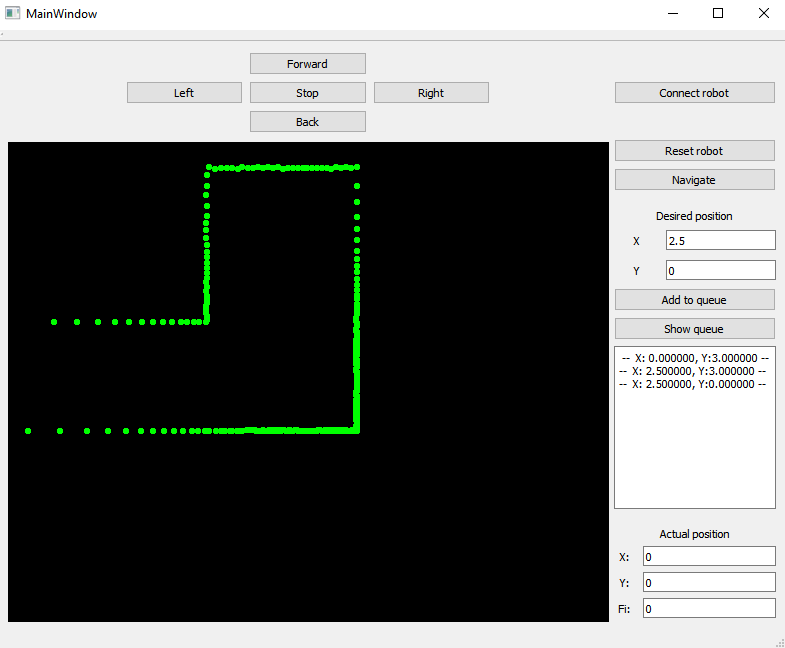
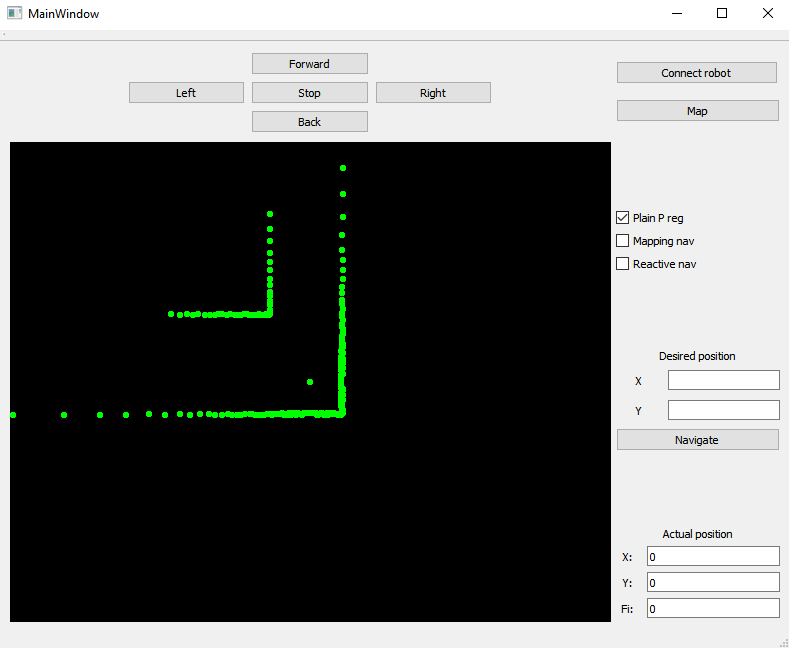
Pridaná dokumentácia

diff --git a/README.md b/README.md
@@ -1,7 +1,155 @@
-# Robot Command Tool
-This is assigment for school subject Controlling mobile robots. The GUI is made in Qt.
-You can control robot manually or by defining points to queue. 
-There is P-regulator with ramp signal, which compute all speeds to succesfully reach target point.
+# Riadenie mobilných robotov #
 
-![Optional Text](images/gui.png)
-![Optional Text](images/simulator.png)
+Tento projekt pozostáva zo 4 úloch, ktoré su naprogramované ako súčasť jednej aplikácie.\
+Všetky úlohy sú implementované do demo príkladu, ktorý sme dostali ako podklad k predmetu.
+
+## Úloha 1 - zadanie ##
+
+    Úlohou č.1 bolo implementovanie odometrie (lokalizácie). Z dát, ktoré máme k dispozícii 
+    vďaka snímačom na robote chceme určiť, kde sa práve robot nachádza (a pod akým uhlom).
+    Dáta, ktoré používame pre určenie polohy robota:
+        - prejdená vzdialenosť lavého a pravého kolesa (hodnoty inkrementálnych enkóderov)
+        - prejdená vzdialenosť kolesa na jeden inkrement enkódera
+        - polomer robota  
+    Na základe implementovania algoritmu úlohy č.1 dostaneme pozíciu robota ako:
+        - pozícia x, y
+        - natotočenie robota φ
+    Pozícia je vztiahnutá k počiatočnej polohe robota pri jeho spustení. To znamená, že miesto, 
+    v ktorom sa robot spustí, je v súradnicom systéme bod [0, 0], natočenie φ = 0 rad.
+
+    Druhou časťou prvej úlohy je polohovanie. Z predošlej časti máme x,y a φ, zadáme želanú polohu ako
+    Xn a Yn a budeme očakávať, že robot sa do želanej polohy dostane. To zabezpečíme pomocou implementácie
+    P regulátora s rozbehom po rampe (aby sme zabránili prešmyku kolies pri rýchlom rozbehu a tým skreslili
+    odometriu - používame enkódery na určenie polohy)
+
+### Úloha 1 - implementácia ###
+
+    Princíp algoritmu odometrie funguje na základe rozdielu hodnôt enkóderov kolies v aktuálnom cykle
+    a v predošlom cykle. Tým pádom musíme poznať hodnotu enkódera každého kolesa aj v predošlom cykle.
+    Dôležitým bodom je, že enkóder je typu beznamienkový short, ktorého maximálna hodnota je 65 535.
+    Musíme ošetriť pretečenie tohto parametre - ak dosiahne maximálnu hodnotu, znova začne od nuly.
+    Na základe ďalších vzorcov, ktoré máme v poskytnutých materiáloch, vieme vypočíťať koordináty x, y a φ.
+    Tieto koordináty budeme využívať vo všetkých ďalších úlohách, ako aj v druhej časti 1. úlohy.
+
+    Druhá úloha sa týkala polohovania. Polohovanie som zabezpečil pomocou P regulátora translačnej a 
+    rotačnej rýchlosti. Ak si používateľ zvolí želanú polohu a stlačí tlačidlo Navigate, každý cyklus
+    programu sa vyhodnotí odchýlka od želanej polohy. Následne sa v prvom kroku reguluje natočenie -
+    robot sa musí natočiť smerom k cielu, točí sa, dokym nedosiahne hodnotu mŕtveho pásma PA_1. 
+    Následne, po ukočení regulácie rotácie, sa reguluje translačný pohyb - robot sa rozbehne smerom k 
+    prekážke. Rozbieha sa po rampe, t.j želanú rýchlosť nedosiahne ihneď, ale po určitom čase lineárne.
+    Robot sa dopredne pohybuje až do momentu, kedy výchylka natočenia robota od ciela nepresiahne povolenú
+    hranicu PA_2. V tomto momente sa prerušuje regulácia doprednej rýchlosti a začína sa opäť regulácia rotácie.
+    Tento kolobeh sa opakuje až do momentu, pokým nie sú splnené podmienk dosiahnutia ciela - povolená
+    odchýlka od ciela PD. Zásobník, do ktorého pridávame želanú polohu, je realizovaný ako FIFO zásobník.
+    Môžeme teda súčasne zadať naraz po sebe viacero želaných bodov a robot sa bude polohovať postupne ku každému
+    v poradí, akom boli pridané. Pri FIFO zásobníku do znamená, first in, first out.
+
+### Úloha 1 - spustenie ###
+
+    Odometriu môže používateľ vidieť v pravej dolnej časti okna aplikácie. Ak chce používateľ využiť polohovanie,
+    zadá želané súradnice do časti "Desired position" (nezabudnime, že bod [0, 0] súradnicového systému je 
+    v počiatočnom bode štartu robota). Po zadaní želaného bodu stlačíme tlačidlo "Navigate" a robot sa začne 
+    polohovať do zadaného bodu.
+![Optional Text](images/gui1.png)
+
+## Úloha 2 - zadanie ##
+
+    Úlohou č.2 bolo implementovanie reaktívnej navigácie. Reaktívna navigácia má za úlohu dostať robota 
+    do požadovanej polohy a vyhnúť sa kolízii s prekážkou. T.j., musí vedieť identifikovať a obísť
+    prekážku, ak tá spôsobuje, že sa robot nedokáže dostať priamo do ciela. 
+
+### Úloha 2 - implementácia ###
+
+    Prvou časťou riešenia problému je nájsť koncové body prekážky. To som uskutočnil pomocou Euklidovskej
+    vzdialenosti a dát z lidaru. Po zadaní želaného bodu, zakliknutí možnosti "Reactive Nav" a stlačení
+    tlačidla Navigate robot vyhodnotí, či dokáže ísť priamo na prekážku, alebo nie. Ak nedokáže, vypočíta
+    odchýlku uhla od robota od natočenia k cielu. Následne na základe tejto uhlovej odchýlky vypočíta 
+    percento, v ktorej časti lidarových dát sa nachádza trajektória k cielu. T.j ak rozdiel uhla medzi
+    cieľom a robotom je 45°, percento bude 12,5 (45*100 / 360 = 12,5 ). Toto percento prepočítame na 
+    index lidarových dát - tento index rozdelí lidarové dáta na dve časti - lavá časť (od natočenia k
+    cielu doĺava) a pravá časť (od natočenia k cielu doprava). Lavá časť iteruje lidarové body od indexu
+    inkrementálne po koniec pola. Pravá časť iteruje od indexu dekrementálne po začiatok pola. 
+    V týchto iteráciach hľadáme bod, v ktorom sa skokovo zmení vzdialenosť. Ak to nastane, vieme, že sme
+    detegovali hranu prekážky. Nevieme však, či naša najbližšia hrana je prvok 'k' alebo 'k-1' (rep. k+1)
+    pri iterácii pravou stranou. Preto označíme oba body za prekážku a v neskoršej fáze vyberieme ten bod,
+    cez ktorý má robot kratšiu dráhu do ciela. Pre nájdený bod vypočítame bezpečnostný offset. Využívame 
+    pri tom goniometrické vzťahy. Keď sa robot dostane do tohto bodu, opakuje sa celý algoritmus opísaný 
+    vyššie. Ak je už možné dosiahnuť cieľ priamo, robot automaticky prepne režim hľadania prekážky do 
+    režimu priamej navigácie. Či je bod dosiahnuteľný alebo nie, zisťujem pomocou algoritmu zóny, ktorý 
+    máme znázornený v učebných dokumentoch. 
+
+### Úloha 2 - spustenie ###
+
+    Rovnako ako v predošlej úlohe, použijeme zadávanie súradnic želaného bodu v časti "Desired position".
+    Zmena je však v prepnutí módu navigácie. Z módu "Plan P reg" musíme prepkliknúť možnosť "Reactive nav".
+    Zvyšok je rovnaký. Stlačíme tlačidlo "Navigate" a robot sa začne pohybovať do ciela - zároven obchádza 
+    prekážky.
+![Optional Text](images/gui2.png)  
+
+## Úloha 3 - zadanie ##
+
+    Úlohou č.3 bolo implementovanie mapovania prostredia. Robot musí vedieť zmapovať prostredie v ktorom sa 
+    sme pohybovať. Mapa bude slúžiť v 4. úlohe na navigáciu robota podľa mapy prostredia. Priestor, ktorý 
+    mapujeme, má rozmery zhruba 6x6 metrov.
+
+### Úloha 3 - implementácia ###
+
+    Mapu priestoru reprezentujem ako 2D pole integerov. Keďže neviem počiatočnú polohu robota vo vymedzenom
+    priestore, zvolil som si také rozmery pola, aby boli postačujúce pre akúkoľvek počiatočnú polohu robota.
+    Zvolil som rozmer 12x12. V tomto prípade by predstavoval jeden skok medzi bunkami rozmer 1 meter. Ak
+    chceme rozlíšenie menšie, potrebujeme pole zväčšiť. Zvolil som si krok približne 8 cm, čo pole 12x12
+    zvaäčší na 144x144 (12m / 144b = 0.0833). Keď už máme formát reprezentovania mapy prostredia, môžeme
+    začať s mapovaním. V každom kroku robota zoberieme súbor dát z lidaru a pre kazždý bod určíme koordináty
+    [x, y]. Následne tieto koordinatáy prepočítame na indexy 2D pola (berieme v úvahu, že máme väčšie pole
+    z dôvodu, že nevieme kde začneme - takže bod [0, 0] leží v strede 2D pola). Každý bod lidaru je v mape 
+    následne reprezentovaný ako číslo 1. Dôležitý bod je, že nemapujeme, ak je robot v rotácii. Pri rotácii
+    dochádza k veľmi veľkým nepresnostiam a skreslovalo by to našu mapu. Aby sme zmapovali celé prostredie, 
+    naplníme si zásobník takými bodmi v priestore, aby robot zmapoval všetky časti oblasti. 
+    Použijeme jednoduché polohovanie k tomu, aby sa robot dostal ku každému bodu
+    (body som rozvrhol tak, že robot nemusí obchádzať prekážky a teda používať reaktívnu navigáciu). Zároveň,
+    aby nevznikali zbytočné nepresnosti, maximálna rýchlosť robota pri mapovacom móde sa zníží, nakoľko pri
+    nižšej rýchlosti robota sú nepresnosti menšie.
+
+### Úloha 3 - spustenie ###
+
+    Pre spustenie mapovania použijeme jednoducha tlačidlo "Map". Robot má vo svojom algoritme preddefinované
+    body, cez ktoré ma pomocou regulátora prejsť tak, aby zmapoval všetky časti priestoru. Po stlačení tohto
+    tlačidla sa robot prepne do mapovacieho módu, zníží svoju maximálnu rýchlosť, naplní zásobník žiadaných 
+    bodov preddefinovanými bodmi a žačne s polohovaním a mapovaním. Po dosiahnutí všetkých bodov v zásobníku
+    robot automaticky ukončí mapovací mód, nazad zvýši svoju maximálnu rýchlosť a automaticky uloží mapu
+    prostredia do súboru "map.txt". 
+![Optional Text](images/gui3.png)  
+
+## Úloha 4 - zadanie ##
+
+    Úlohou č.4 bolo implementovanie navigácie pomocou mapy prostredia. Úloha priamo nadväzuje na predchádzajúcu
+    úlohu mapovania. Úlohou bude dostať sa do lubovľného bodu prostredia so schopnosťou vyhnúť sa prekážke. 
+
+### Úloha 4 - implementácia ###
+
+    Máme mapu prostredia z predošlej úlohy. Prvým krokom je rozšírenie stien v mape, aby sme zabezpečili, že
+    robot nenarazí do žiadnej z nich (robot má určitý polomer, s ktorým sme pri mapovaní neuvažovali). Keďže
+    máme krok medzi bunkami ~8cm, budeme musieť steny rozšíriť o 2 bunky na každú stranu. Tým zabezpečíme, že
+    stena bude zhrubnutá o ~16 cm, čo je viac ako polomer robota. Ďalej pokračujeme presne podľa postupu v
+    poskytnutých učebných materiáloch. Zvolili sme si pohyb iba v 4 smeroch, teda 4-susednosť. Najskôr pomocou
+    záplavového algoritmu určíme vzdialenosti všektých buniek v priestore od ciela. Ciel reprezentuje číslo 2
+    v 2D poli, každá susedná bunka je repzrezentovaná inkrementom predchodzej bunky smerom k cielu. Ciel je 
+    reprezentovaný ako 0. Zaplavujeme 2D pole týmito vzdialenosťami len v rozpätí stien priestoru. Keď narazíme 
+    na bunku s hodnotou 1 (stena), ďalej nepokračujeme a ideme iným smerom.
+    Záplavový algoritmus je implementovaný pomocou queue. Funguje na princípe algoritmu "Breadth First Search".
+    Keď máme takto zaplavený priestor vzdialenosťami, použijeme opäť queue nato, aby sme našli najkratšiu vzdia-
+    lenosť od polohy robota po ciel. Jedná sa o rovnaký algoritmus ako v predošlej úlohe, začíname však opačne,
+    teda nie v cieli ale v štarte. Následne ideme do tej susednej bunky, ktorá má najmenšiu hodnotu. Túto bunku 
+    označíme číslom 0. Takto pokračujeme, až sa dostaneme do ciela. Pri celom tomto procese si zaznačujeme, 
+    do ktorého smeru sused aktuálnej bunky má najmenšiu vzdialenosť a rovnako si držíme predošlého suseda.
+    Ak sa sused zmení (t.j. zmení sa smer z vertikálneho na horizontálny alebo opačne) vieme, že je to zlomový bod.
+    Pre tento bod si prepočítame súradnice do súradného systému sveta a vložíme tento bod do zásobníka. Takto
+    vložíme do zásboníka všetky body, kde dochádza k zmene smeru, až pokým sa nedostaneme k cielu.
+
+### Úloha 4 - spustenie ###
+
+    V prvom rade musíme mať v build priečniku mapu priestoru vo formáte .txt súboru (map.txt). Ak takú nemáme,
+    použijeme najskôr mód mapovania (úloha 2).
+    Spustenie navigovania pomocou mapovania je rovnaké ako pri jednoduchej aj reaktívnej navigácii. Jediná zmena
+    je prepnutie režimu navigácie na "Mapping nav". 
+![Optional Text](images/gui4.png)
